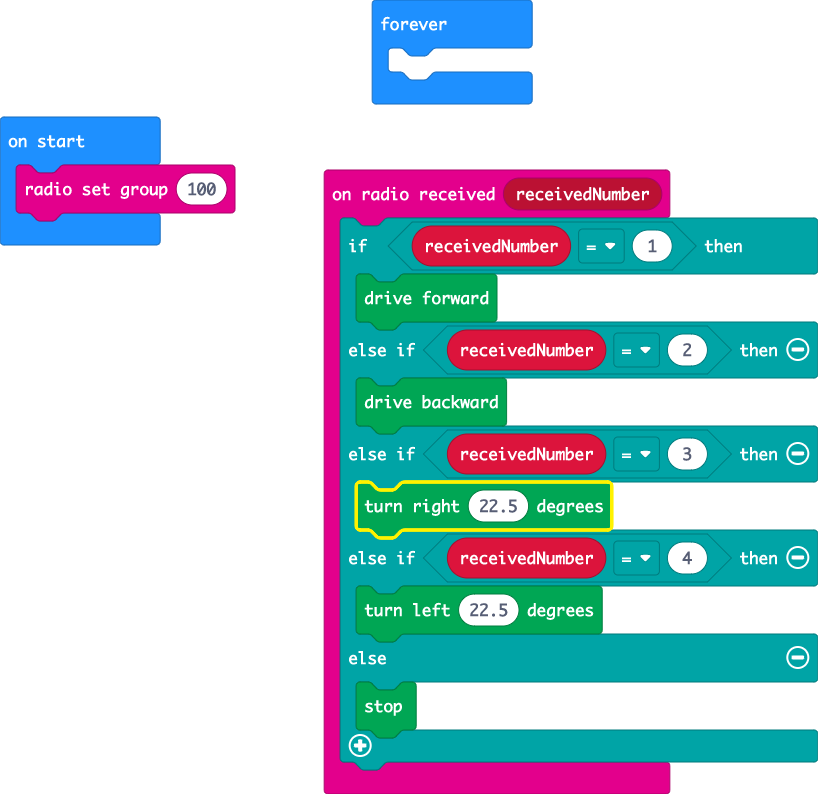
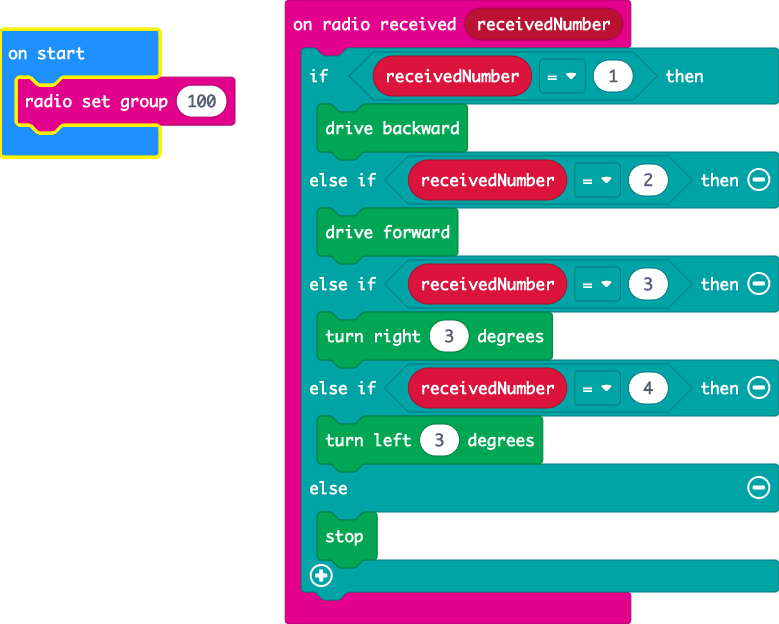
Update main.blocks, main.ts

diff --git a/main.ts b/main.ts
@@ -1,17 +1,14 @@
 radio.onReceivedNumber(function (receivedNumber) {
     if (receivedNumber == 1) {
-        kitronik_servo_lite.forward()
-    } else if (receivedNumber == 2) {
         kitronik_servo_lite.backward()
+    } else if (receivedNumber == 2) {
+        kitronik_servo_lite.forward()
     } else if (receivedNumber == 3) {
-        kitronik_servo_lite.turnRight(22.5)
+        kitronik_servo_lite.turnRight(3)
     } else if (receivedNumber == 4) {
-        kitronik_servo_lite.turnLeft(22.5)
+        kitronik_servo_lite.turnLeft(3)
     } else {
         kitronik_servo_lite.stop()
     }
 })
 radio.setGroup(100)
-basic.forever(function () {
-	
-})
